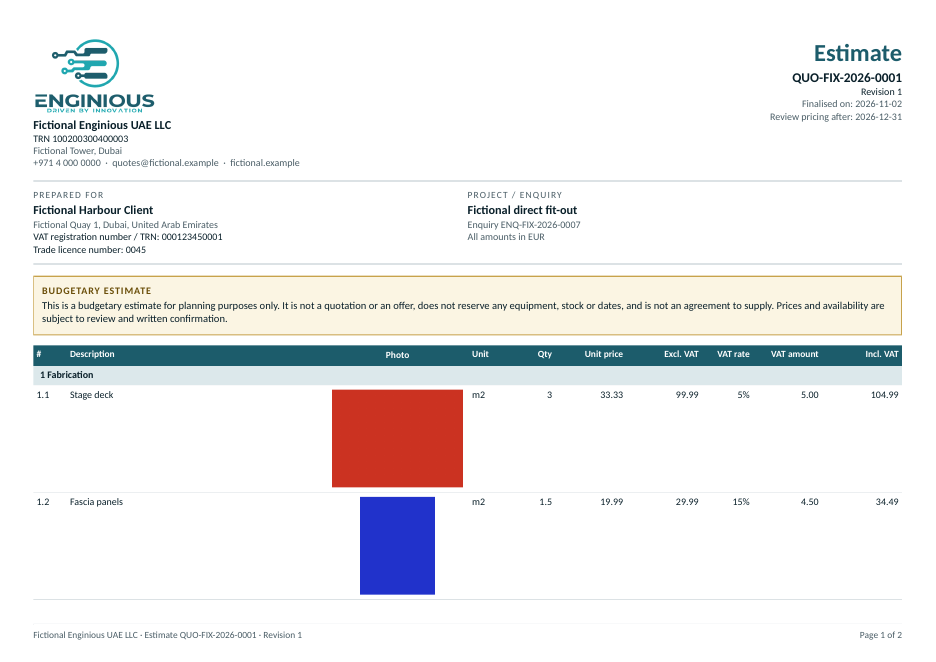
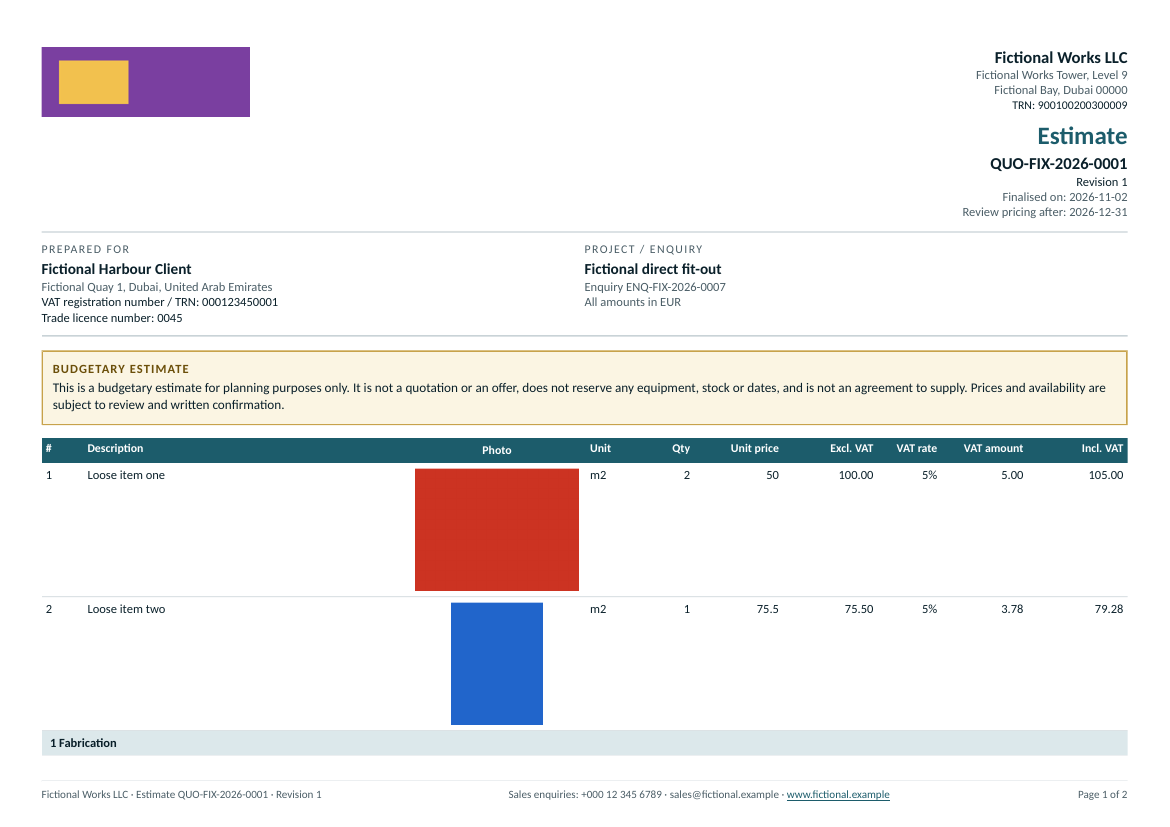
Docs: issuer branding in estimate exports (module doc, change log, README stamp, deployment: issuer details to enter)
Claude-Session: https://claude.ai/code/session_01SMT2mSUqkwEcqrvr66ux3w

diff --git a/docs/enginious-os/modules/sales-estimates-and-quotations.md b/docs/enginious-os/modules/sales-estimates-and-quotations.md
@@ -1,6 +1,6 @@
 # Sales: Estimates (builder, finalise, frozen snapshot, PDF and Excel export)
 
-Status: part 1 and part 2 are merged on `main` (PRs #61 and #62; migration `20261220000100_crm_estimates_quotations.sql` applied on hosted V2 per the owner, hosted behaviour of the app not verified by Claude). The **"Estimates only" change** (branch `feat/estimates-only`, not merged, **no migration, no hosted SQL**) is described in section 0 and applied through sections 1 to 3. File name kept for link stability; the product word everywhere a person reads is **Estimate**. Conventions as in `../README.md`: every claim cites a source; the named database function is the real gate and repeats the check. Deployment: `docs/estimates-quotations-deployment.md`.
+Status: part 1 and part 2 are merged on `main` (PRs #61 and #62; migration `20261220000100_crm_estimates_quotations.sql` applied on hosted V2 per the owner, hosted behaviour of the app not verified by Claude). The **"Estimates only" change** (branch `feat/estimates-only`, not merged, **no migration, no hosted SQL**) is described in section 0 and applied through sections 1 to 3. The **issuer branding change** (branch `feat/estimate-issuer-branding`, built on it, not merged, **no migration, no hosted SQL**) is the last two rows of section 0. File name kept for link stability; the product word everywhere a person reads is **Estimate**. Conventions as in `../README.md`: every claim cites a source; the named database function is the real gate and repeats the check. Deployment: `docs/estimates-quotations-deployment.md`.
 
 ## 0. Estimates only (owner decision, this change)
 
@@ -9,11 +9,13 @@ Status: part 1 and part 2 are merged on `main` (PRs #61 and #62; migration `2026
 | Wording | Every screen, panel, button, status, error, file name and exported text says Estimate; "Finalise estimate" replaces "Issue quotation"; "Request approval" / "Review for approval"; "Review pricing after" replaces "Valid until" (the stored column `validity_date` is unchanged). The database functions (applied, never edited) still raise "quotation" / "issue" messages: they are translated in one place, tested over every message the functions can raise | `lib/crm/quotations/wording.ts`, `wording.test.ts`; `describeEvent` in `opportunities/[id]/helpers.ts` |
 | Mandatory budgetary notice | One constant in `packages/domain` (`BUDGETARY_NOTICE`, versioned `ESTIMATE_NOTICES`), printed above the BOQ on PDF page one and as the first block of the Excel sheet, in the builder preview and the finalised view. It is not a field of any editor, and the optional notes cannot hold or replace it | `packages/domain/src/estimates.ts`; `export/estimate-export.test.tsx` (one-item and 60-item estimates, notes that imitate it) |
 | No acceptance wording | The six standard terms clauses are not printed (the template rows stay in `crm_quote_terms_templates`; the Sales settings editor is removed). Payment milestones are optional "Payment details" printed as an **Indicative payment schedule**. Internal "working draft, pending legal review" text and internal notes never reach a client file (tested in PDF text and bytes and Excel cells and bytes) | `estimate-export.test.tsx` "wording" |
-| Format marker (how old documents stay as issued) | The database that builds the frozen snapshot is unchanged, so a snapshot has no new schema version. The server writes `estimate-format:1` into `crm_quotations.terms_label` (never a user field); the database copies it into the snapshot `terms.label`; exports read it. **A snapshot without the marker is a historical quotation** and renders exactly as issued (stored numbers, "Quotation" wording, terms, valid until). Every draft exports as an estimate. A legacy draft or a revision of a legacy quotation is brought into the estimate format when it is saved, when approval is requested and when it is finalised, before its version is fingerprinted | `domain/estimates.ts` (`estimateFormatVersion`), `doc-model.ts`, `actions/quotations.ts` (`ensureEstimateFormat`); `export/legacy-regression.test.tsx` with the fictional pre-change fixture `export/__fixtures__/legacy-frozen-v1.json` (text, page count, cells, row heights, file names identical to the pre-change output; snapshot never modified); browser flow step "frozen BEFORE this change" |
+| Format marker (how old documents stay as issued) | The database that builds the frozen snapshot is unchanged, so a snapshot has no new schema version. The server writes the format marker (`estimate-format:2` since issuer branding; `estimate-format:1` was the Estimates-only release) into `crm_quotations.terms_label` (never a user field); the database copies it into the snapshot `terms.label`; exports read it. **A snapshot without the marker is a historical quotation** and renders exactly as issued (stored numbers, "Quotation" wording, terms, valid until). Every draft exports as an estimate. A legacy draft or a revision of a legacy quotation is brought into the estimate format when it is saved, when approval is requested and when it is finalised, before its version is fingerprinted | `domain/estimates.ts` (`estimateFormatVersion`), `doc-model.ts`, `actions/quotations.ts` (`ensureEstimateFormat`); `export/legacy-regression.test.tsx` with the fictional pre-change fixture `export/__fixtures__/legacy-frozen-v1.json` (text, page count, cells, row heights, file names identical to the pre-change output; snapshot never modified); browser flow step "frozen BEFORE this change" |
 | Reference prefix | **New estimates keep `QUO-`**: the prefix is hard-coded in `crm_quote_create` (applied SQL) and no safe app-level route exists (the table is SELECT-only for people and `crm_quote_save_header` cannot change it). Nothing else depends on the prefix, so a later migration can switch to `EST-` with no app change. What it would need: `create or replace function crm_quote_create` with `format('EST-%s-%s-%s', ...)`, nothing else (existing references, counters and snapshots untouched) | `crm_quote_create`; owner decision recorded in section 4 |
 | Finalising only freezes | `crm_quote_issue` never writes `crm_proposals.status` of the finalised row (it stays `draft`; "Finalised" is derived from `issued_at`), only supersedes earlier `draft`/`sent` revisions of the same reference. It creates no follow-up, reminder, booking, reservation or Zoho reference and moves no stage. Proved on the local stack by comparing every reservation/booking/follow-up/reminder/Zoho/handover/closure/movement/approval table, the stage and version and the proposal status before and after | `crm_quote_issue`; browser flow step "FINALISE: freezes only"; `actions/quotations.test.ts` (only `crm_quote_issue` is called) |
 | Shared proposal status and "record as sent" | The risk was not finalising but **"Record as sent" on an estimate row**: `crm_set_proposal_status('sent')` supersedes the proposal really sent to the client and a `sent` row unlocks the Proposal sent stage. The Proposal versions panel now labels estimate rows "Estimate, draft/finalised", offers no "Record as sent" for them, and `setProposalStatus` refuses `sent` for a version that has an estimate row (fail closed if the check cannot be made). **Enforcement is in the app only**: a direct database call of `crm_set_proposal_status` on an estimate row is still possible for the enquiry owner or a founder; closing that needs a migration (decision, section 4). Ordinary proposals, notes, files and the Zoho quote reference are untouched | `proposals-panel.tsx`, `actions/crm.ts` `setProposalStatus`, `actions/proposal-estimate.test.ts`; browser flow |
 | Approval | Unchanged: version-bound content-hash approval and the policy `required / not_required / not_configured`; only relabelled | `crm_quote_request_approval`, `crm_quote_decide_approval`; browser flow (stale screen refused) |
+| Issuer branding in the exports (header, footer, link) | **Header (PDF page one):** the profile logo on the left (no logo when the profile has none; the bundled ENGINIOUS logo is not used for estimates); legal name, the address lines as stored and `TRN: <value>` (omitted when empty) right-aligned; the title, reference, revision and dates under that block. **Footer (every page):** rule, estimate reference left, one centred line `Sales enquiries: <phone> · <email> · <website>` ("Sales enquiries:" is a fixed label in code; a missing part and its separator are omitted, all three missing = no line), `Page x of y` far right. The website links to the stored value normalised to an absolute https URL; any other scheme, `//host`, spaces or credentials stay plain text. **Excel:** the same header lines; the same line as the last visible row (website in its own hyperlink cell) and in the print footer. Landscape A4, notice and photo sizes unchanged. All values come from the company profile (Admin, Companies, "Issuer details": every field already existed, the address is multi-line), never from code | `packages/domain/src/estimates.ts` (`salesContact`, `normaliseWebsiteUrl`, `addressLines`), `export/doc-model.ts` (`branded`, `issuerHeaderLines`), `pdf/quotation-document.tsx` (`BrandedHead`, `BrandedMarks`), `export/xlsx.ts`; `export/issuer-branding.test.tsx`; browser flow steps "ISSUER BRANDING", "edited AFTER finalising", "NEW revision picks the new profile up" |
+| Issuer freeze and old documents | The snapshot already froze legal name, TRN, address, phone, email, website and the pinned logo (path and SHA-256) at finalisation (`crm_quote_build_content`), so nothing new is stored: the exports read the FROZEN fields, never the live profile, for a finalised revision (the link normalisation happens at render from the frozen value). Drafts render the live profile and stay marked Draft. **Told apart by the format marker:** `estimate-format:2` and drafts = branded layout; `estimate-format:1` and no marker (legacy) keep their original layout, with the contact line in the header, no sales footer line and no link, and are never back-filled from the live profile. A new revision is moved to format 2 when saved, sent for approval or finalised | `export/legacy-regression.test.tsx`, `export/issuer-branding.test.tsx` with `export/__fixtures__/estimate-frozen-v1.json` (a fictional format-1 snapshot and the PDF text, page count, cells, print footer and file names the code produced before this change), freeze test (profile edited after finalising, only pinned paths read), new-revision test |
 
 ## 1. Model and decisions
 
@@ -103,7 +105,7 @@ ONE document model (`lib/crm/quotations/export/doc-model.ts`) feeds both files. 
 | A quotation issued before the change | Exactly as issued: "Quotation", stored numbering, "Valid until", Terms and conditions, small thumbnails, frozen header rows, no notice | | | `LegacyDocument`, the legacy branch of `buildQuotationWorkbook` | `export/legacy-regression.test.tsx` |
 | Excluded from both files | Internal notes (unique marker absent from the PDF text and bytes and the XLSX cells and bytes, draft and finalised), the historical standard terms and the "working draft, pending legal review" label, costs, margin, supplier prices, approvals, audit data | | | the model has no such field | `estimate-export.test.tsx` |
 
-Page images of the new outputs (fictional data): `docs/enginious-os/screenshots/estimates/estimate-pdf-1.png`, `estimate-xlsx-1.png`; the builder: `estimate-1-details.png`, `estimate-2-boq.png`, `estimate-3-preview-and-finalise.png` (local stack, light theme). Real object storage was verified earlier on an isolated local Supabase stack (see `docs/estimates-quotations-deployment.md` "Local release check"); the photo upload and storage-backed export were **not** re-run for the estimates-only change (the evidence files used the in-memory storage seam). WebP photos are converted through `sharp` when it is available.
+Page images of the new outputs (fictional data): `docs/enginious-os/screenshots/estimates/estimate-pdf-1.png`, `estimate-xlsx-1.png`; the builder: `estimate-1-details.png`, `estimate-2-boq.png`, `estimate-3-preview-and-finalise.png` (local stack, light theme). Real object storage was verified earlier on an isolated local Supabase stack (see `docs/estimates-quotations-deployment.md` "Local release check"); the photo upload and storage-backed export were **not** re-run for the estimates-only change (the evidence files used the in-memory storage seam). The issuer branding change was likewise not run against real object storage: the local stack has none, so the logo is covered by tests with the storage seam only. WebP photos are converted through `sharp` when it is available.
 
 ## 4. Open owner decisions
 

diff --git a/docs/estimates-quotations-deployment.md b/docs/estimates-quotations-deployment.md
@@ -54,3 +54,40 @@ Still needs hosted verification (owner, after applying the migration): who owns 
 **No migration is needed and no owner SQL pack changes.** The applied migration `20261220000100_crm_estimates_quotations.sql` is untouched; deploy the app only. What changed: the wording (Estimate everywhere), a simpler three-step builder, the mandatory budgetary notice in both files, no standard terms or acceptance wording in client files, larger aspect-preserving photos, a boxed totals block, and "record as sent" refused for estimate rows in the app. Existing `QUO-` quotations and their frozen snapshots are not rewritten and export exactly as issued (a snapshot without the server-written marker `estimate-format:1` is treated as historical). New estimates are still numbered `QUO-...`.
 
 Evidence at `158740c`: unit and export tests including a pre-change frozen fixture, and a local-stack browser flow (`apps/web/os-shell-checks/quotations-flow.mjs`) proving that finalising writes no booking, reservation, follow-up, reminder or Zoho row and changes no status or stage. **Not verified:** any hosted behaviour of this change, Vercel, real object storage for this change. Optional later migrations (owner decision, not required): `EST-` reference prefix (`create or replace function crm_quote_create`), and a database-level refusal of `crm_set_proposal_status('sent')` for a version that has a `crm_quotations` row.
+
+## Issuer branding in estimate exports (branch `feat/estimate-issuer-branding`)
+
+**No migration is needed and no owner SQL pack changes.** The Admin → Companies "Issuer details" screen already holds every field (legal name, TRN, a multi-line address, phone, email, website, logo), and the frozen snapshot already froze all of them, with the logo pinned by path and SHA-256 (`crm_quote_build_content`, applied migration `20261220000100`). Deploy the app only. What changed:
+
+* **Header (PDF page one):** the profile logo on the left; legal name, the address lines as stored and `TRN: <value>` (omitted when empty) right-aligned on the right, with the estimate title, reference, revision and dates under that block. A profile with no logo prints no logo (the bundled ENGINIOUS logo is not used for estimates).
+* **Footer (every PDF page):** a thin rule, then the estimate reference on the left, one centred line `Sales enquiries: <phone> · <email> · <website>` and `Page x of y` at the far right. "Sales enquiries:" is a fixed label in code; a missing part and its separator are omitted, and the whole line is omitted when all three are missing. The website is a real link to the stored value normalised to an absolute https URL (`www.example.ae` and `https://www.example.ae` both link to `https://www.example.ae`). Any other scheme (javascript:, data:, file:, ftp: and so on), a `//host` value, spaces or credentials are printed as plain text and never linked.
+* **Excel:** the same header lines at the top and the same sales line as the last visible row of the sheet (label, phone and email in one cell, the website beside it as a real hyperlink cell; one plain cell when the website is not linkable), and the same line in the print footer (centre; a print footer cannot hold a link; the reference is dropped before the sales line if the 255-character footer limit would be exceeded).
+* **How old documents stay as they were:** the format marker. Estimates now carry `estimate-format:2` (set by the server when a draft is saved, sent for approval or finalised). A snapshot marked `estimate-format:1` (finalised by the Estimates-only release) and a snapshot with no marker (a quotation issued earlier) render exactly as before: the old header with the contact line, no sales footer line, no link, and no value is ever read from the live company profile for a finalised revision. Tests: `export/legacy-regression.test.tsx` (pre-change legacy fixture) and `export/issuer-branding.test.tsx` with the new pre-change fixture `export/__fixtures__/estimate-frozen-v1.json` (PDF text, page count, Excel cells, print footer, file names identical). A draft that carries the `estimate-format:1` marker is moved to `2` when it is next saved, sent for approval or finalised; if it was already approved, the approval is bound to the old version and has to be requested again (the same rule as any edit).
+* **Freeze:** nothing new is stored. A finalised revision reads the issuer fields from its own snapshot; editing the company profile afterwards changes nothing in its PDF or Excel, and the next revision picks the new profile up. Drafts show the live profile and stay marked Draft.
+* The Admin → Companies button and dialog are now called "Issuer details" (they still said quotation).
+
+Evidence: unit and export tests (header, footer on every page, omissions, multi-line address, link annotation and Excel hyperlink, unsafe schemes, freeze after a profile edit, new revision, legacy and format-1 regressions), and the local-stack browser flow `apps/web/os-shell-checks/quotations-flow.mjs` (Admin → Companies edit, finalise, edit again, re-export unchanged, new revision changed). **Not verified:** any hosted behaviour, Vercel, and logo upload and pinning against real object storage for this change (the local stack has none; the logo path is covered by tests with a storage seam, and earlier hosted-style Storage evidence is in "Local release check" above).
+
+### Issuer details to enter (owner, on hosted V2, after the app is deployed)
+
+**Claude entered nothing on hosted V2, seeded nothing for any entity and added no migration or SQL that writes these values.** Until you enter them, the exports show only what the profile holds (finalising still needs a non-blank legal name, the existing rule). Sign in as a System Administrator, open **Admin → Companies**, find the row **Enginious LLC FZ** (the exact name in the Companies list) and press **Issuer details**. Type exactly:
+
+| Form field | Value |
+|---|---|
+| Legal name | `Enginious LLC FZ` |
+| Tax registration number (TRN) | `100613846300003` |
+| Address (a multi-line box; Enter starts a new line, line breaks are kept) | two lines: `Business Center 1, The Meydan Hotel / Nad Al Sheba,` then `Dubai 00000, U.A.E.` |
+| Phone | `+971 50 7247728` |
+| Email | `sales@enginious.ae` |
+| Website | `https://www.enginious.ae` |
+| Logo | in the same dialog, the second form "Upload logo": choose the official Enginious logo file (PNG, JPEG or WebP, under 900 KB). No logo file is committed with this change. |
+
+Press **Save details**, then upload the logo. A revision finalised afterwards freezes these values; revisions finalised before keep what they were finalised with.
+
+Optional read-only check (a SELECT, no writes; run it in the SQL editor to see what the profile holds):
+
+```sql
+select legal_name, trn, address, phone, email, website, logo_path is not null as has_logo
+from companies
+where legal_name = 'Enginious LLC FZ';
+```

diff --git a/docs/enginious-os/README.md b/docs/enginious-os/README.md
@@ -30,6 +30,7 @@ Per-module control references (`modules/*.md`) are deliberately deferred and not
 | Clients & Agencies directory table (`modules/sales-clients-and-agencies.md` sections 2.1, 4.1, 4.2 and the export row of 8.1; 06 entry of 2026-11-08) | Verified at `3574599` (docs and screenshots only on top): lint, typecheck, root `npm test` (web 207 files / 2130 tests, domain 41 / 474), `cd apps/web && npx vitest run` (207 / 2130), placeholder-env build, `npm run check:secrets`, and on the local stack (fictional data) `os-shell-checks/clients-agencies-table-flow.mjs` (7 of 7 steps), `clients-agencies-flow.mjs` (15 of 15) and `clients-agencies-outreach-flow.mjs` (8 of 8). No migration, no RLS suite needed. Branch `feat/clients-table` (not merged), 2026-11-08. Other Clients & Agencies sections keep their earlier stamps | `git log`, test output |
 | Estimates & Quotations sections (`modules/sales-estimates-and-quotations.md`, the identifier parts of `modules/sales-clients-and-agencies.md`, 02 rows for the estimate routes, Sales settings and Admin Companies, 06 entry) | Part 1 first verified at `3b9f1a8`; part 2 and the owner changes (section numbering, Exclusions block, version-bound approval, pinned assets, PDF and Excel export) verified at `e840bf6` (docs-only stamp commit on top): lint, typecheck, root `npm test`, `cd apps/web && npx vitest run`, placeholder-env build, `npm run check:secrets`, the full RLS suite (1606 tests in 59 files, incl. `crm-quotations.rls.test.ts` which also runs owner pack files 00, 05, 20 and the rollback refusal), and the local-stack browser flow `apps/web/os-shell-checks/quotations-flow.mjs` (all steps PASS, including the stale-approval refusal, PDF and Excel downloads and the frozen re-export); at `e840bf6`: root `npm test` 2121 tests, web vitest 485 (export, pinning, approval-binding and action tests among them). Not run: any hosted SQL. Real object storage was later verified on an isolated local Supabase stack (quotations at `f90c915`, existing CRM compatibility at `2fef1f1`, which is not claimed to be the Production commit; see `docs/estimates-quotations-deployment.md` "Local release check"); hosted V2 is not yet verified | `git log` |
 | Estimates-only change (`modules/sales-estimates-and-quotations.md` section 0 and the rewritten controls, 02 estimate row, 06 entry of 2026-11-08, deployment note) | Code verified at `158740c` (docs and stamp only on top): lint, typecheck, root `npm test` (web 215 files / 2213 tests, domain 43 / 496), `cd apps/web && npx vitest run` (215 / 2213), placeholder-env build, `npm run check:secrets`, and on the local stack (fictional data, in-memory storage seam for the evidence files because the stack has no object storage) `os-shell-checks/quotations-flow.mjs` (15 of 15 steps: finalising changes no status, stage or reservation/booking/follow-up/reminder/Zoho row; a frozen pre-change quotation is byte-identical and exports as issued). No migration, so the RLS suite was not run. Branch `feat/estimates-only` (not merged), 2026-11-08. Photo upload and storage-backed export were not re-verified; hosted V2 not verified | `git log`, test output |
+| Issuer branding in estimate exports (`modules/sales-estimates-and-quotations.md` section 0 rows "Issuer branding in the exports" and "Issuer freeze and old documents", 02 Companies row, 06 entry of 2026-11-08, deployment sections "Issuer branding in estimate exports" and "Issuer details to enter") | Code verified at `fad0eaa` (docs and stamp only on top): lint, typecheck, root `npm test` (web 217 files / 2252 tests, domain 43 files / 514 tests), `cd apps/web && npx vitest run`, placeholder-env build, `npm run check:secrets`, and the local-stack browser flow `apps/web/os-shell-checks/quotations-flow.mjs` (19 of 19 steps). RLS suite not run (no SQL changed). Not verified: any hosted behaviour, Vercel, logo upload and pinning against real object storage for this change |
 | Vercel Production status for `28549dd` | not verified by Claude (owner to confirm) | none |
 | Hosted scheduler status | Scheduler activation is deferred by owner decision (not enabled or changed here). Vercel cron and `pg_cron` histories: `Unverified` (owner to check) | `04-flows-sales-to-warehouse-and-others.md` section 5 |
 | Not verified here | Anything needing a running app, a database, a phone or a hosted project | no servers or databases were started |

diff --git a/docs/enginious-os/06-change-log.md b/docs/enginious-os/06-change-log.md
@@ -8,6 +8,13 @@ Maintenance rule (from `README.md`): any change to behaviour, access, navigation
 
 ## Launch-refinement release (owner-reported hosted state: migrations 1 to 15 applied and verified on V2)
 
+### 2026-11-08 | Issuer profile and branding in estimate exports | branch `feat/estimate-issuer-branding` (from `feat/estimates-only` `64d9890`; not merged, no PR opened by the implementer)
+* Summary: estimate PDFs and Excel files now print the selected company's own profile. PDF page one: logo on the left, issuer block right-aligned (legal name, address lines as stored, `TRN: <value>` omitted when empty), title block under it; every PDF page: rule, estimate reference, one centred `Sales enquiries: <phone> · <email> · <website>` line (fixed label, missing parts and separators omitted, no line when all three are missing) and `Page x of y`, the website a real link to its https form (unsafe schemes stay plain text). Excel: the same header lines, a visible bottom row with the website as a hyperlink cell, and the same line in the print footer. Estimates now carry format marker `estimate-format:2`; snapshots marked `1` and legacy quotations render exactly as before and are never back-filled from the live profile. The snapshot already froze all issuer fields and the pinned logo, so nothing new is stored. Admin, Companies "Quotation details" is now "Issuer details" and an address keeps its line breaks.
+* Migrations: **none**. Owner pack: none. The values the owner types are in `docs/estimates-quotations-deployment.md` ("Issuer details to enter"); nothing was entered or seeded on hosted V2.
+* Files updated in `docs/enginious-os/`: `modules/sales-estimates-and-quotations.md` (two rows in section 0, marker row, screenshots paragraph), `02-screens-and-navigation.md` (Companies row), this entry, README stamp row; `docs/estimates-quotations-deployment.md` (sections "Issuer branding in estimate exports" and "Issuer details to enter"). Screenshots: `screenshots/estimates/estimate-pdf-1.png` and `estimate-xlsx-1.png` replaced, `estimate-issuer-details.png` added.
+* Hosted status: not applicable (no SQL); hosted verification of this change: none. The local stack has no object storage, so the logo is covered by tests with the storage seam only.
+* Tests added or changed: `packages/domain/test/estimates.test.ts`; `apps/web/src/lib/crm/quotations/export/issuer-branding.test.tsx` (new, with fixture `__fixtures__/estimate-frozen-v1.json`), `legacy-regression.test.tsx` (extended), `export.test.tsx`; `apps/web/src/lib/actions/companies-issuer.test.ts`; browser flow `apps/web/os-shell-checks/quotations-flow.mjs` (19 of 19 steps, local stack).
+
 ### 2026-11-08 | Estimates only (estimate wording, simpler builder, mandatory budgetary notice) | branch `feat/estimates-only` (from main `b61d3a3`; PR opened by the coordinator, not merged)
 * Summary: everything a person or client reads says Estimate ("Finalise estimate", "Review pricing after", "Request approval"); the builder is three steps (Details, BOQ, Preview & finalise) with one Save draft, inline items, optional sections, a read-only issuer summary, a suggested-only recipient, a prefilled currency and a More options block; the PDF and Excel carry the owner's budgetary notice on page one / top row, a boxed totals block, large aspect-preserving photos and optional Assumptions / Exclusions / Next steps, and no standard terms or acceptance wording. Historical quotations keep rendering exactly as issued (format marker `estimate-format:1` in `terms_label`, copied into the snapshot). Finalising only freezes; "Record as sent" is refused for an estimate row (app level).
 * Migrations: **none** (the applied migration is untouched). New estimates keep `QUO-` references; a one-line migration of `crm_quote_create` would switch to `EST-`; a database-level refusal of "record as sent" for estimate rows would need an additive migration of `crm_set_proposal_status` (both are owner decisions, see `modules/sales-estimates-and-quotations.md` section 4).

diff --git a/docs/enginious-os/02-screens-and-navigation.md b/docs/enginious-os/02-screens-and-navigation.md
@@ -43,7 +43,7 @@ Verified at `551f615` (2026-11-04). Route list from `apps/web/src/app/(app)/**/p
 | `/payroll`, `/payroll/[id]` | Payroll runs | Page: HR Admin, Finance, CEO, CTO |
 | `/assets` | Asset register | Page: HR Admin, Finance |
 | `/ai-suggestions`, `/audit-log` | Reviewed drafts; audit trail | Page: HR Admin or System Administrator |
-| `/admin/companies` | Companies (now with "Quotation details": legal name, TRN, address, contacts, logo of the issuer) | Layout: System Administrator |
+| `/admin/companies` | Companies (now with "Issuer details": legal name, TRN, address, contacts, logo of the issuer) | Layout: System Administrator |
 | `/people-access` | Manage HR roles, module grants, accounts | Page + RLS: sys admin, HR Admin, module access managers |
 
 **People & Access, Module access tab (PR #57, merged at `28549dd`; re-verified at `28549dd`, 2026-11-07).** After choosing a person: an "Access for company" selector (separate from the people-list company filter; defaults to the person's employment company when the viewer manages it; switching saves nothing and, with unsaved edits, asks "Discard unsaved changes?" before switching; choosing another person in the list is guarded the same way and shows the other person only after Discard; only one module editor is open at a time), then one card per module (profile or "Custom access", extra rights, assigned warehouses, Edit access). A card says "No access" only after a successful read, "Could not load ... Try again" after a failed read, and "You can't manage this module" for a module the viewer does not manage. Editing: pick a working profile (draft only), optional collapsed "Advanced access", a review (rights added / removed / custom rights kept / warehouse scope / resulting access), one "Save changes" and Cancel; "Remove all access to this module" is separate. Account, Job & department and HR roles tabs are unchanged. Sources: `apps/web/src/components/people-access/module-access-{panel,card,editor}.tsx`, `unsaved-access-guard.tsx`, `packages/domain/src/accessProfiles.ts` (`28549dd`).
